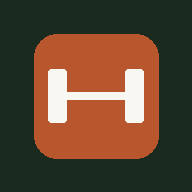
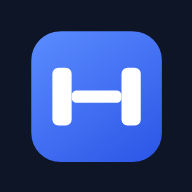
6.1: new colour scheme — slate navy, electric blue accent, emerald for done, cool greys
Replaces the moss/clay/cream palette with a cooler, higher-contrast set re-stepped for dark mode (near-black surfaces). Hero gets a radial highlight, primary buttons a soft accent shadow. Icons regenerated to match; manifest theme/background updated; cache v13.

diff --git a/public/index.html b/public/index.html
@@ -3,17 +3,17 @@
 <head>
 <meta charset="utf-8">
 <meta name="viewport" content="width=device-width,initial-scale=1,viewport-fit=cover">
-<meta name="theme-color" content="#1b2a1f">
+<meta name="theme-color" content="#f3f5f8">
 <meta name="apple-mobile-web-app-capable" content="yes">
 <script>try{var _t=(JSON.parse(localStorage.getItem('rebuild_v4')||'{}').theme)||'auto';if(_t!=='auto')document.documentElement.setAttribute('data-theme',_t)}catch(e){}</script>
 <link rel="manifest" href="manifest.json">
 <link rel="apple-touch-icon" href="icon-192.png">
 <title>Rebuild</title>
 <style>
-:root{--ink:#15201a;--ink2:#5f6b63;--muted:#7d8780;--moss:#2f4a36;--sage:#8fae8c;--fog:#eeeee7;--paper:#f5f4ef;--clay:#c25a2c;--line:#e4e3dc;--gold:#c99a2e;--card:#fff;--inputBg:#f8f8f3;--suggestBg:#fff7e8;--noticeBg:#fdf0ea;--accentInk:#2f4a36;--float:#15201a;--ok:#2e7d4f;--okBg:#e7f3eb;--shadow:0 1px 2px #0000000a,0 6px 20px #00000008;--tabH:58px;color-scheme:light}
+:root{--ink:#0d1420;--ink2:#4b5565;--muted:#7b8696;--moss:#1e2b45;--heroA:#22325a;--heroB:#0d1526;--sage:#9fd8cf;--fog:#eaedf2;--paper:#f3f5f8;--clay:#3b6cff;--line:#e2e6ec;--gold:#e0a100;--card:#fff;--inputBg:#f6f7f9;--suggestBg:#fff8e6;--noticeBg:#fdeeee;--accentInk:#2f5bea;--float:#0d1420;--ok:#12a66f;--okBg:#e3f7ee;--shadow:0 1px 2px #0f172a0a,0 8px 24px #0f172a0a;--tabH:58px;color-scheme:light}
 /* Dark: follows the phone unless forced. Steps chosen for contrast on a dark card. */
-@media (prefers-color-scheme:dark){:root:not([data-theme=light]){--ink:#e9ede8;--ink2:#a9b3ac;--muted:#7f8982;--moss:#3a5a44;--sage:#7fa385;--fog:#242b27;--paper:#0f1311;--clay:#d9743f;--line:#283029;--gold:#d4a53a;--card:#171c19;--inputBg:#1f2622;--suggestBg:#2a2416;--noticeBg:#2c211c;--accentInk:#9ccaa2;--float:#0a0d0b;--ok:#5fbf85;--okBg:#1b2d22;--shadow:none;color-scheme:dark}}
-:root[data-theme=dark]{--ink:#e9ede8;--ink2:#a9b3ac;--muted:#7f8982;--moss:#3a5a44;--sage:#7fa385;--fog:#242b27;--paper:#0f1311;--clay:#d9743f;--line:#283029;--gold:#d4a53a;--card:#171c19;--inputBg:#1f2622;--suggestBg:#2a2416;--noticeBg:#2c211c;--accentInk:#9ccaa2;--float:#0a0d0b;--ok:#5fbf85;--okBg:#1b2d22;--shadow:none;color-scheme:dark}
+@media (prefers-color-scheme:dark){:root:not([data-theme=light]){--ink:#e8edf4;--ink2:#a3afbf;--muted:#6e7a8a;--moss:#2f4270;--heroA:#1b2742;--heroB:#0a1020;--sage:#9fd8cf;--fog:#1a2230;--paper:#0b0f15;--clay:#5b8cff;--line:#243040;--gold:#f0b429;--card:#121821;--inputBg:#161d27;--suggestBg:#2a2412;--noticeBg:#2d1b1b;--accentInk:#8fb0ff;--float:#05080c;--ok:#3ddc97;--okBg:#123426;--shadow:none;color-scheme:dark}}
+:root[data-theme=dark]{--ink:#e8edf4;--ink2:#a3afbf;--muted:#6e7a8a;--moss:#2f4270;--heroA:#1b2742;--heroB:#0a1020;--sage:#9fd8cf;--fog:#1a2230;--paper:#0b0f15;--clay:#5b8cff;--line:#243040;--gold:#f0b429;--card:#121821;--inputBg:#161d27;--suggestBg:#2a2412;--noticeBg:#2d1b1b;--accentInk:#8fb0ff;--float:#05080c;--ok:#3ddc97;--okBg:#123426;--shadow:none;color-scheme:dark}
 *{box-sizing:border-box}
 html,body{overscroll-behavior-y:contain}
 body{margin:0;background:var(--paper);color:var(--ink);font-family:system-ui,-apple-system,"Segoe UI",Roboto,sans-serif;font-size:15px;line-height:1.45;-webkit-font-smoothing:antialiased}
@@ -23,7 +23,7 @@ p{margin:6px 0}.muted{color:var(--muted)}.small{font-size:13px}a{color:var(--acc
 .eyebrow{font-size:11px;font-weight:700;letter-spacing:.06em;text-transform:uppercase;color:var(--muted);margin-bottom:4px}
 .hidden{display:none!important}
 button,input,select,textarea{font:inherit;color:inherit}button{border:0;cursor:pointer;border-radius:12px;background:none;padding:0;-webkit-tap-highlight-color:transparent}
-.primary{background:var(--clay);color:#fff;padding:11px 16px;font-weight:700}.primary.big{width:100%;padding:14px;font-size:16px}.primary:disabled{opacity:.6}
+.primary{background:var(--clay);color:#fff;padding:11px 16px;font-weight:700;box-shadow:0 8px 18px -10px var(--clay)}.primary.big{width:100%;padding:14px;font-size:16px}.primary:disabled{opacity:.6}
 .secondary{background:var(--fog);color:var(--ink);padding:10px 14px;font-weight:600}
 .iconbtn{width:40px;height:40px;border-radius:12px;background:var(--fog);color:var(--ink);display:grid;place-items:center}.iconbtn svg{width:20px;height:20px}
 header.top{display:flex;justify-content:space-between;align-items:center;padding:14px 0 4px}
@@ -31,15 +31,15 @@ header.top{display:flex;justify-content:space-between;align-items:center;padding
 .cardhead{display:flex;justify-content:space-between;align-items:baseline;gap:8px;margin-bottom:6px}
 .view{animation:fade .18s ease}@keyframes fade{from{opacity:0;transform:translateY(6px)}to{opacity:1;transform:none}}
 /* Today */
-.hero{background:linear-gradient(160deg,var(--moss),#1f3627);color:#fff;border:0}.hero .eyebrow,.hero .muted{color:#c9d8c8}.hero h2{font-size:26px;margin-bottom:2px}.hero p{color:#dfe8dc;margin:4px 0 14px}
+.hero{background:radial-gradient(120% 90% at 100% 0%,#ffffff14,transparent 60%),linear-gradient(160deg,var(--heroA),var(--heroB));color:#fff;border:0}.hero .eyebrow,.hero .muted{color:#b7c3d9}.hero h2{font-size:26px;margin-bottom:2px}.hero p{color:#d5deee;margin:4px 0 14px}
 .chips{display:flex;gap:6px;overflow-x:auto;margin-top:12px;padding-bottom:2px;scrollbar-width:none}.chips::-webkit-scrollbar{display:none}
-.chips button{flex:none;border-radius:999px;padding:7px 12px;font-size:13px;font-weight:600;background:#ffffff22;color:#fff}.chips button.on{background:#fff;color:var(--moss)}
+.chips button{flex:none;border-radius:999px;padding:7px 12px;font-size:13px;font-weight:600;background:#ffffff22;color:#fff}.chips button.on{background:#fff;color:var(--heroA)}
 .tiles{display:grid;grid-template-columns:repeat(4,1fr);gap:8px;margin:12px 0}
 .tile{background:var(--card);border:1px solid var(--line);border-radius:14px;padding:10px 6px;text-align:center}.tile b{display:block;font-size:20px;line-height:1.1}.tile span{font-size:10px;color:var(--muted);text-transform:uppercase;letter-spacing:.05em}
 .week{display:grid;grid-template-columns:repeat(7,1fr);gap:4px;margin-top:8px}
 .wd{text-align:center;font-size:11px;color:var(--muted)}.wd .wl{display:block;font-weight:700;margin-bottom:6px}
 .wc{display:grid;place-items:center;width:38px;height:38px;margin:0 auto;border-radius:50%;background:var(--fog);color:var(--ink2);font-weight:800;font-size:13px}
-.wc.s{background:var(--moss);color:#fff}.wc.r{background:var(--sage);color:#17301f}.wc.c{background:var(--clay);color:#fff}.wc.done{background:var(--ok);color:#fff}
+.wc.s{background:var(--moss);color:#fff}.wc.r{background:var(--sage);color:#0b2f2a}.wc.c{background:var(--clay);color:#fff}.wc.done{background:var(--ok);color:#fff}
 .wd.today .wc{box-shadow:0 0 0 2px var(--card),0 0 0 4px var(--clay)}.ws{display:block;margin-top:6px;white-space:nowrap;overflow:hidden;text-overflow:ellipsis}
 .row{display:flex;gap:8px;align-items:center}.row input{flex:1}.row2{display:grid;grid-template-columns:1fr 1fr;gap:10px;margin-top:10px}
 .nudge{border-left:4px solid var(--clay)}
@@ -83,7 +83,7 @@ header.top{display:flex;justify-content:space-between;align-items:center;padding
 nav{position:fixed;bottom:0;left:0;right:0;height:calc(var(--tabH) + env(safe-area-inset-bottom));padding-bottom:env(safe-area-inset-bottom);background:color-mix(in srgb,var(--card) 92%,transparent);backdrop-filter:blur(12px);-webkit-backdrop-filter:blur(12px);border-top:1px solid var(--line);display:flex;justify-content:center;z-index:7}
 nav button{flex:1;max-width:140px;color:var(--muted);display:flex;flex-direction:column;align-items:center;gap:1px;padding:6px 4px 4px;font-size:11px;font-weight:700;border-radius:0}
 nav .ic{display:grid;place-items:center;width:44px;height:26px;border-radius:13px}nav .ic svg{width:22px;height:22px}nav button.active{color:var(--accentInk)}nav button.active .ic{background:var(--fog)}
-#toast{position:fixed;left:50%;transform:translateX(-50%);top:calc(12px + env(safe-area-inset-top));background:var(--float);color:#fff;border-radius:12px;padding:12px 18px;font-weight:600;font-size:14px;width:max-content;max-width:calc(100% - 32px);box-shadow:0 6px 20px #0006;z-index:30;text-align:center}#toast.pr{background:var(--gold);color:#1b2a1f}
+#toast{position:fixed;left:50%;transform:translateX(-50%);top:calc(12px + env(safe-area-inset-top));background:var(--float);color:#fff;border-radius:12px;padding:12px 18px;font-weight:600;font-size:14px;width:max-content;max-width:calc(100% - 32px);box-shadow:0 6px 20px #0006;z-index:30;text-align:center}#toast.pr{background:var(--gold);color:#1a1403}
 /* Forms & misc */
 .grid2{display:grid;grid-template-columns:1fr 1fr;gap:10px}.field label{font-size:11px;font-weight:700;letter-spacing:.05em;text-transform:uppercase;color:var(--muted);display:block;margin-bottom:4px}
 .field input,.field select,.row input{width:100%;padding:11px 12px;border:1px solid var(--line);border-radius:10px;background:var(--inputBg)}
@@ -192,7 +192,7 @@ a:focus-visible,button:focus-visible,input:focus-visible,select:focus-visible{ou
     <div class="notice">Get urgent care for a sudden worst-ever headache, or one with weakness, confusion, vision loss, fever with stiff neck, or after a head knock.</div></div>
   <div class="card"><div class="cardhead"><h2>Data</h2></div><p class="small muted" style="margin-top:0">Your log lives only on this phone, at this web address. <span id="bkAge"></span></p><div class="links"><button class="hidden" id="shareBk" onclick="shareBackup()">Share backup</button><button onclick="exportData()">Export backup</button><button onclick="document.getElementById('dataFile').click()">Import backup</button><button onclick="if(confirm('Delete everything on this device?')){localStorage.removeItem(KEY);location.reload()}">Clear</button></div>
     <input id="dataFile" type="file" accept=".json,.txt,application/json,text/plain" class="hidden" onchange="importDataFile(event)"></div>
-  <p class="small muted" style="text-align:center">Rebuild 6.0.2 · 9 Oct 2026 · exercise images: Free Exercise DB</p>
+  <p class="small muted" style="text-align:center">Rebuild 6.1 · 9 Oct 2026 · exercise images: Free Exercise DB</p>
 </section>
 </div>
 
@@ -386,7 +386,7 @@ function render(){applyTheme();
 }
 // ---- theme, equipment set-ups, calendar, block summary, in-app coach ----
 function applyTheme(){const t=data.theme;if(t==='auto')document.documentElement.removeAttribute('data-theme');else document.documentElement.setAttribute('data-theme',t);
- const dark=t==='dark'||(t==='auto'&&matchMedia('(prefers-color-scheme:dark)').matches);document.querySelector('meta[name=theme-color]').setAttribute('content',dark?'#121614':'#1b2a1f')}
+ const dark=t==='dark'||(t==='auto'&&matchMedia('(prefers-color-scheme:dark)').matches);document.querySelector('meta[name=theme-color]').setAttribute('content',dark?'#0b0f15':'#f3f5f8')}
 function setTheme(v){data.theme=v;save();applyTheme()}
 const sameEquip=eq=>eq.length===data.equip.length&&eq.every(q=>data.equip.includes(q));
 function applyProfile(i){data.equip=[...data.profiles[i].equip];save();render();toast(`Loaded ${data.profiles[i].name}`)}

diff --git a/public/sw.js b/public/sw.js
@@ -1,5 +1,5 @@
 // Bump CACHE whenever index.html changes, or phones keep the old version.
-const CACHE='rebuild-v12';
+const CACHE='rebuild-v13';
 const IMG='rebuild-img-v1'; // exercise demo frames; survives app-shell bumps
 const FILES=['./','./index.html','./manifest.json','./icon-192.png','./icon-512.png'];
 self.addEventListener('install',e=>{self.skipWaiting();e.waitUntil(caches.open(CACHE).then(c=>c.addAll(FILES)))});
